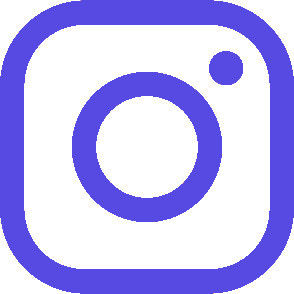
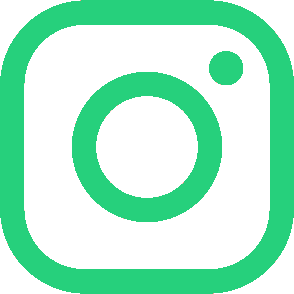
color palette updated

diff --git a/files/index.css b/files/index.css
@@ -5,8 +5,8 @@
 	--dark: #050609;
 	--light: #F7F7F9;
 	--shine: #FFB100;
-	--warm: #A62639;
-	--cool: #574AE2;
+	--warm: #92140C;
+	--cool: #26d07c;
 }
 @font-face {
 	font-family: norm;
